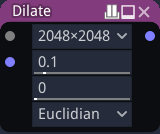
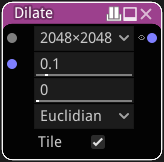
Added a Tile parameter to the Dilate node

diff --git a/material_maker/doc/node_filter_dilate.rst b/material_maker/doc/node_filter_dilate.rst
@@ -32,7 +32,9 @@ The **Dilate** node accepts the following parameters:
 * *length* is the length of the dilate effect
 * when *mode* is set to 0, the dilate effect generates a gradient around (based on the
   distance to) the white parts of the mask. When set to 1, the dilate effect just dilates
-  the source (or the white color). Values in between mix both methods.
+  the source (or the white color). Values in between mix both methods
+* the *distance* function used for the Dilate operation (Euclidian, Manhattan or Chebyshev)
+* a *tile* option to create a tileable result
 
 Example images
 ++++++++++++++

diff --git a/CHANGELOG.md b/CHANGELOG.md
@@ -31,6 +31,7 @@
 - The interpolation code has been improved in the 3D FBM node (contributed by Arnklit).
 - The random color output of the **Triangle Voronoi** node, that did not always tile, depending
   on the scale parameters, has been fixed (contributed by williamchange).
+- The **Dilate** node can now create (optionally) a non-tileable result.
 
 ## Miscellaneous
 
